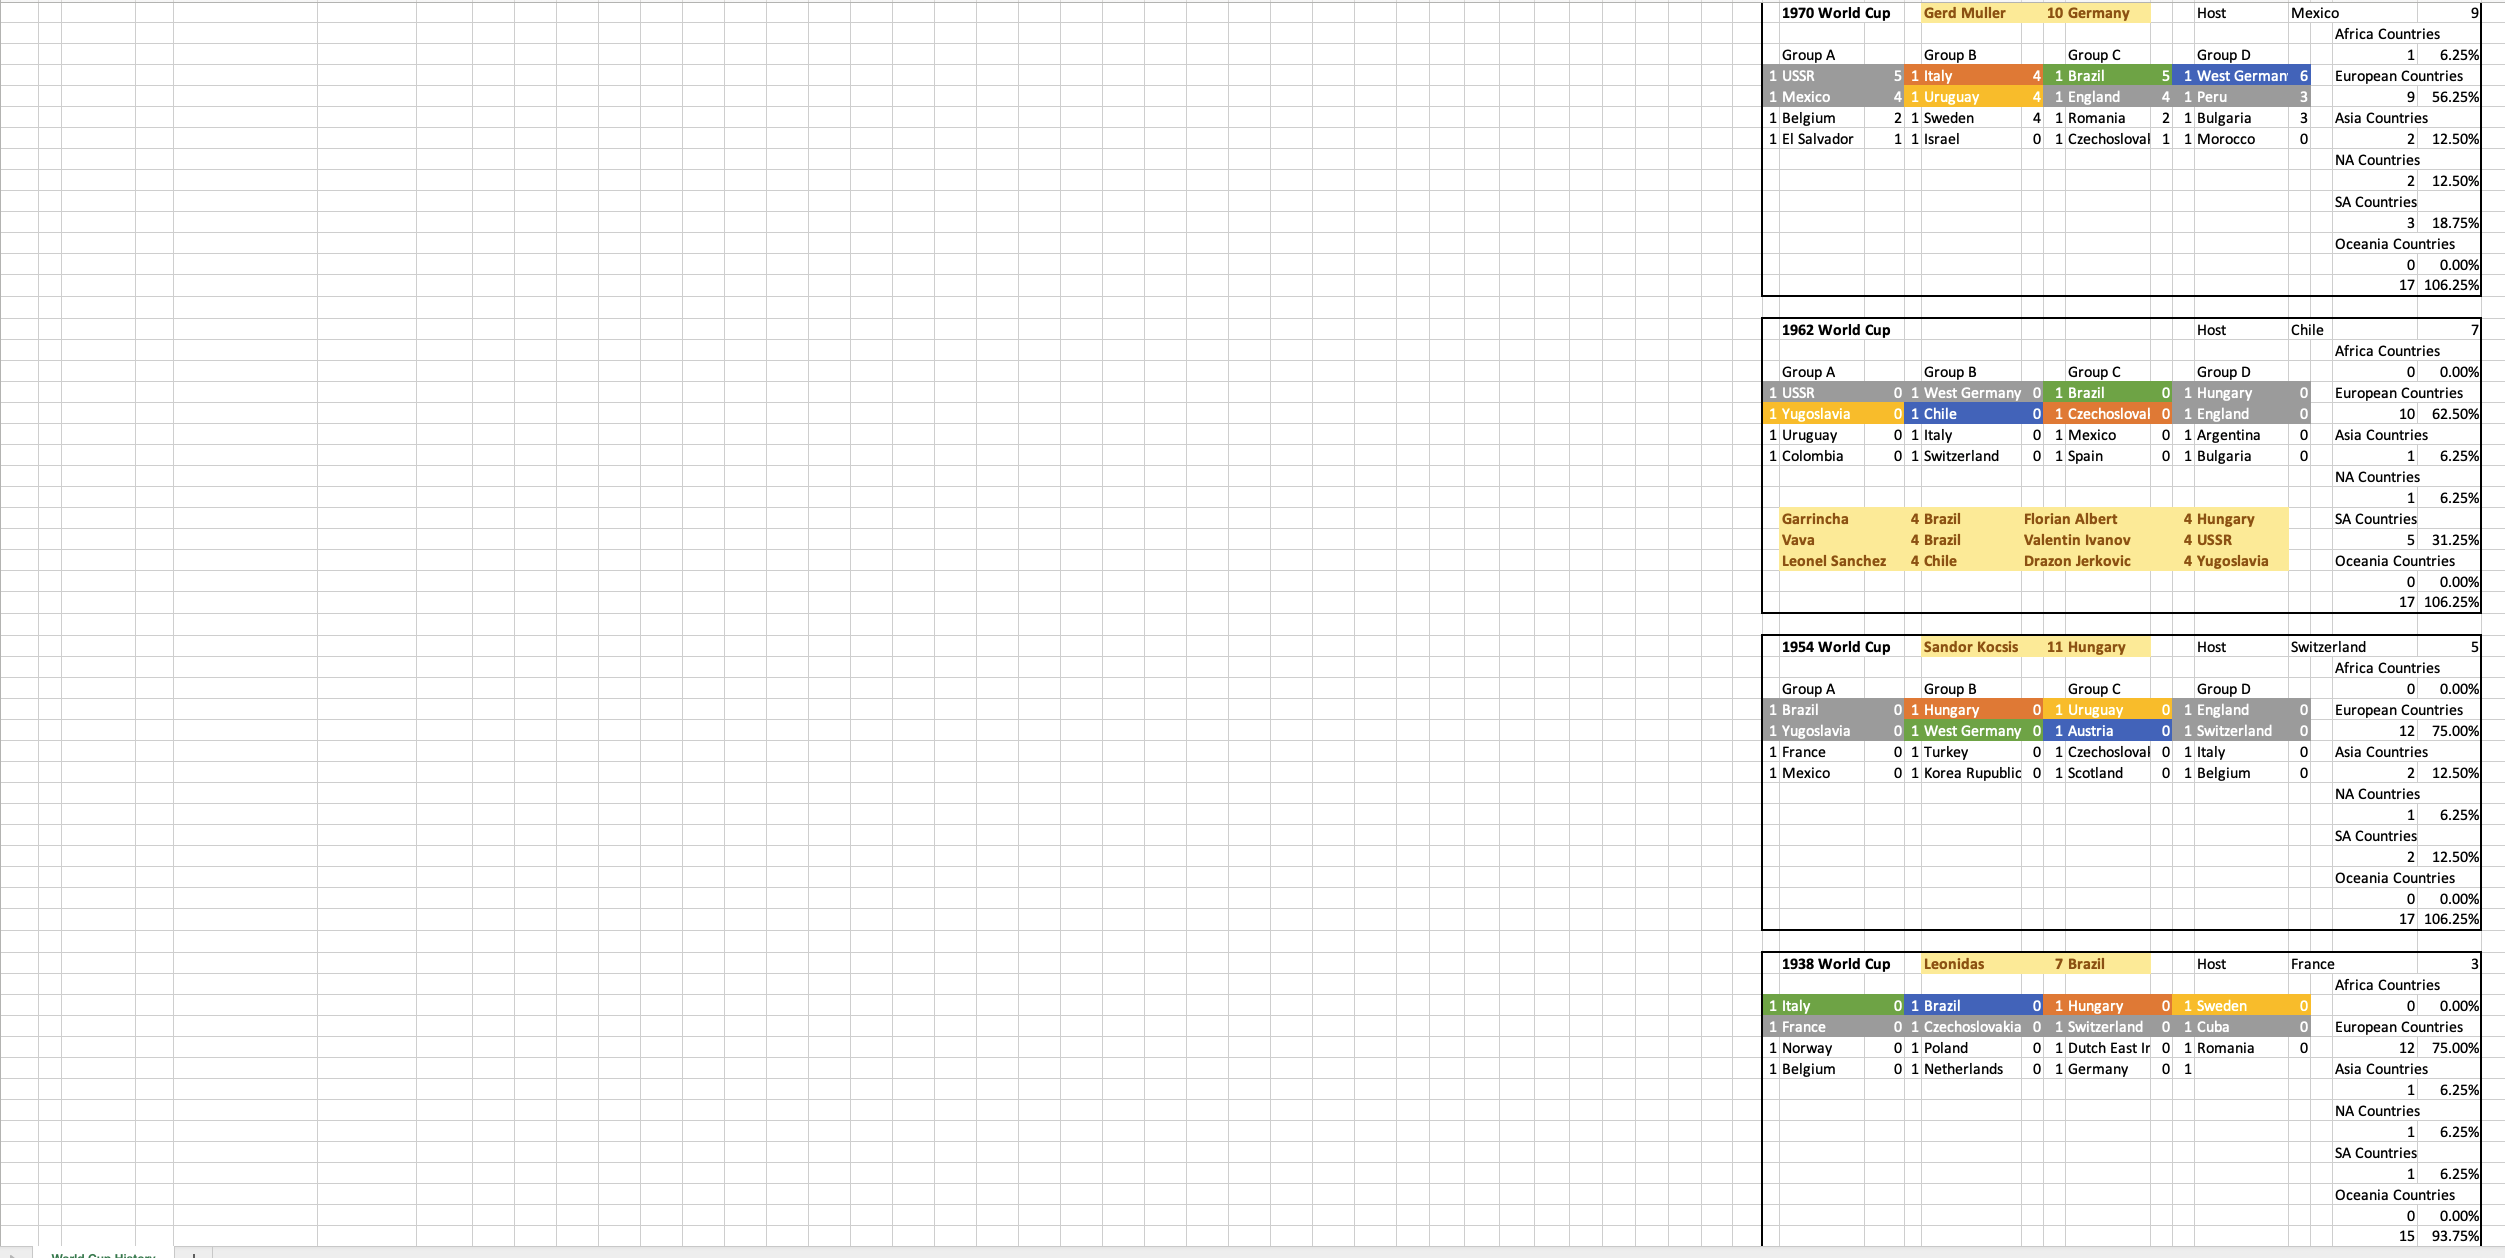
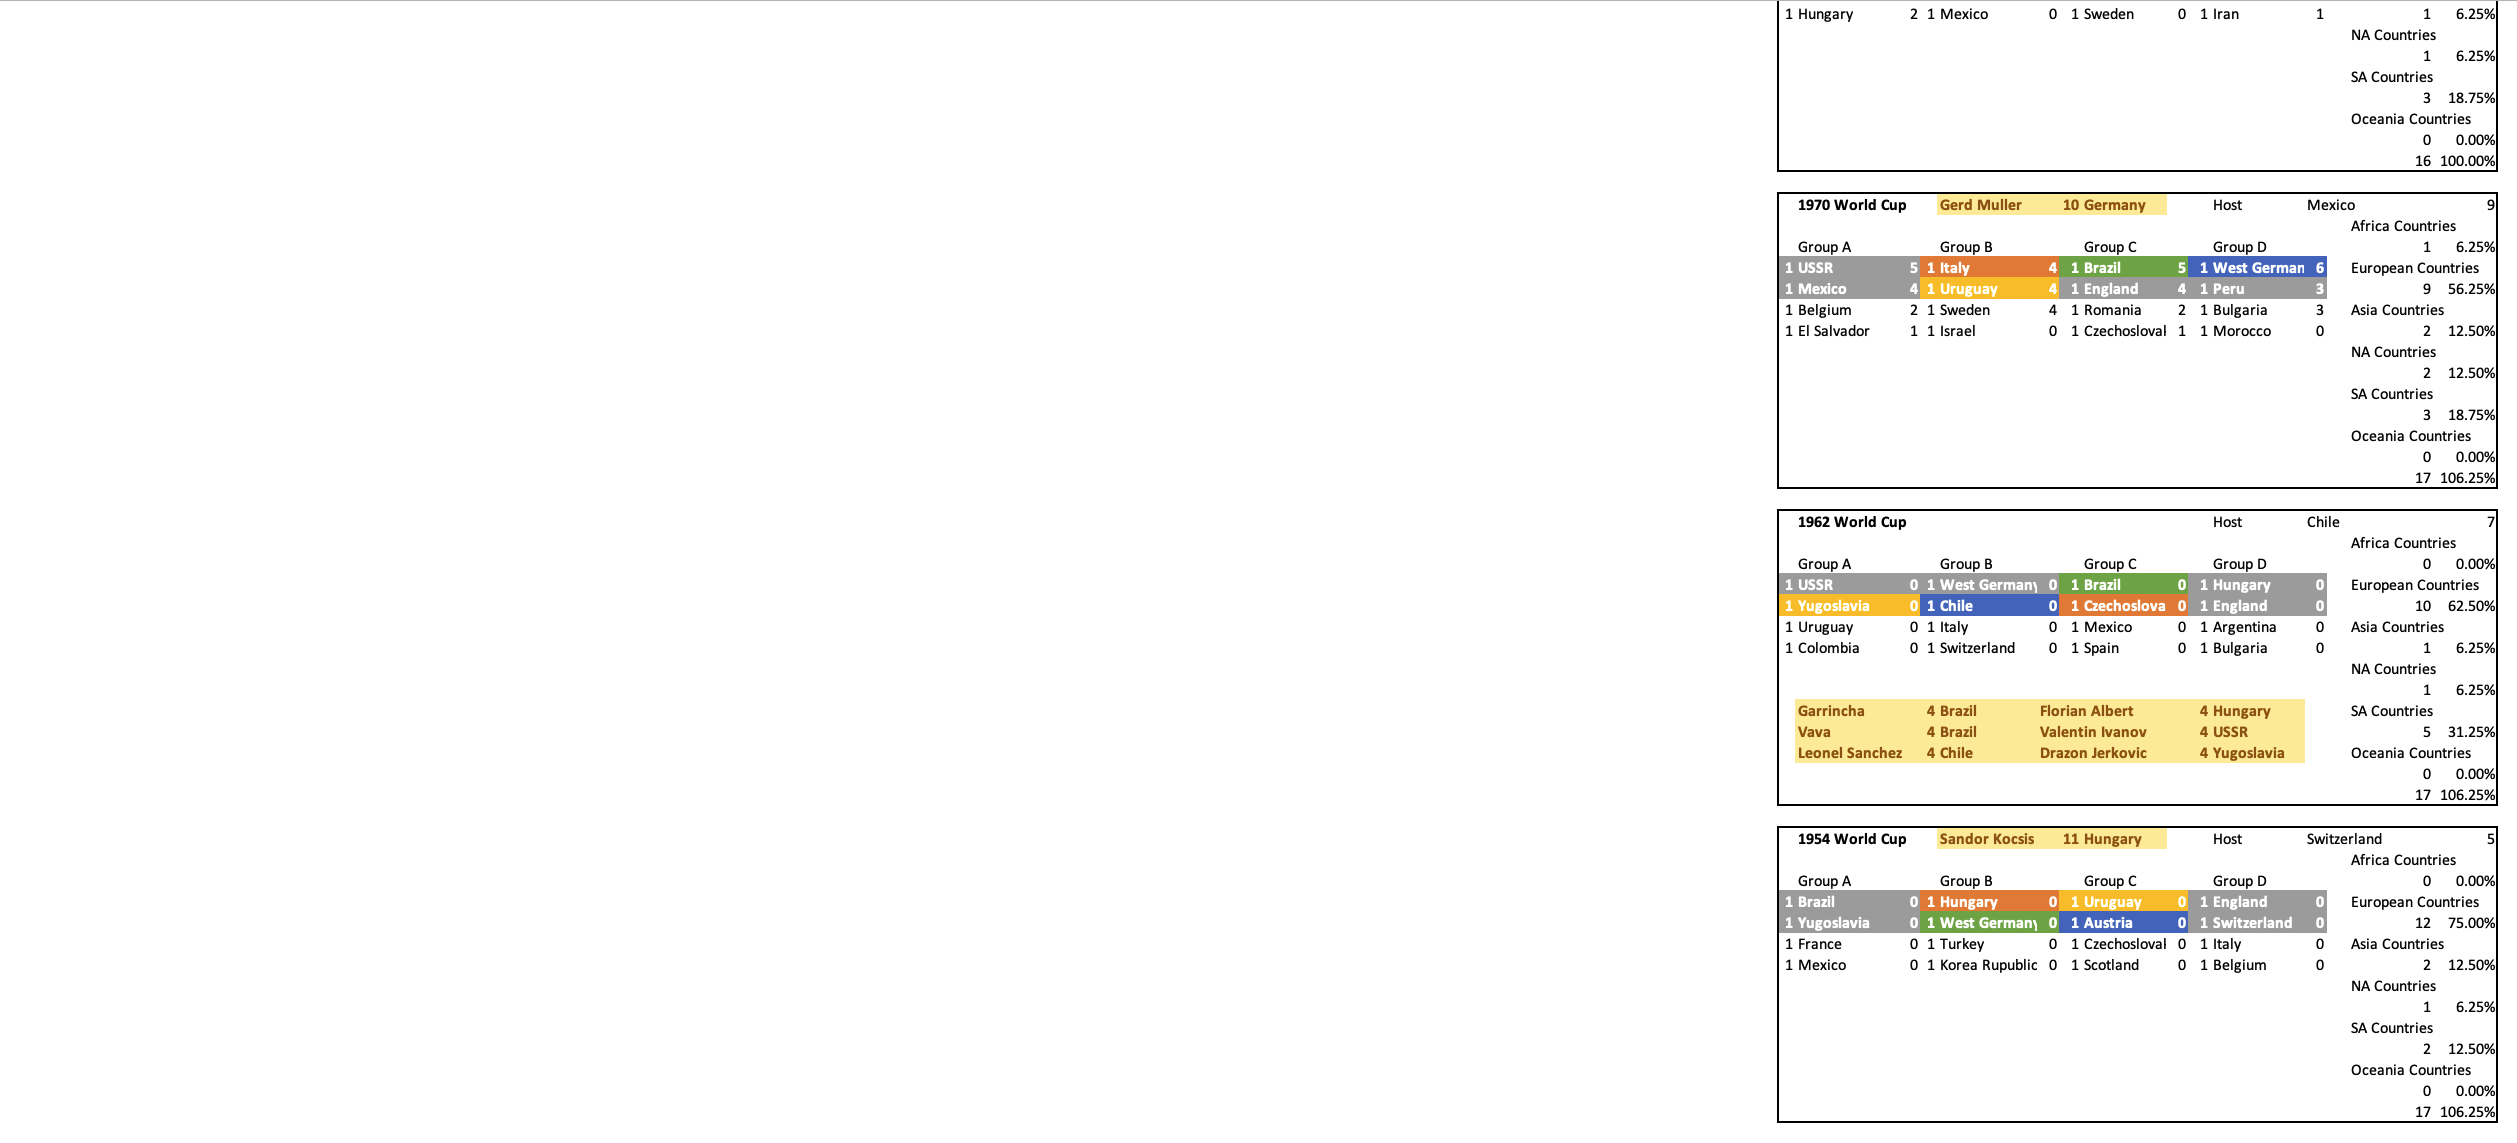
updated sports section

diff --git a/ncaatourney.html b/ncaatourney.html
@@ -70,29 +70,33 @@
         <img style="margin-left: 30px"; src="assets/images/NCAA_legend1.png">
         <br>
         <br>
-        <div style="width: 3600px">
+        <div style="width: 4600px">
             <img id="img11" style="margin-left: 30px; float: left;"; src="assets/images/NCAANewFull1.1.png">
             <img id="img12" style="float: left"; src="assets/images/NCAANewFull1.2.png">
         </div>
-        <div style="width: 3600px">
+        <div style="width: 4600px">
             <img id="img21" style="margin-left: 30px; float: left;"; src="assets/images/NCAANewFull2.1.png">
             <img id="img22" style="float: left"; src="assets/images/NCAANewFull2.2.png">
         </div>
-        <div style="width: 3600px">
+        <div style="width: 4600px">
             <img id="img31" style="margin-left: 30px; float: left;"; src="assets/images/NCAANewFull3.1.png">
             <img id="img32" style="float: left"; src="assets/images/NCAANewFull3.2.png">
         </div>
-        <div style="width: 3600px">
+        <div style="width: 4600px">
             <img id="img41" style="margin-left: 30px; float: left;"; src="assets/images/NCAANewFull4.1.png">
             <img id="img42" style="float: left"; src="assets/images/NCAANewFull4.2.png">
         </div>
-        <div style="width: 3600px">
+        <div style="width: 4600px">
             <img id="img41" style="margin-left: 30px; float: left;"; src="assets/images/NCAANewFull5.1.png">
             <img id="img42" style="float: left"; src="assets/images/NCAANewFull5.2.png">
         </div>
-        <div style="width: 3600px">
+        <div style="width: 4600px">
             <img id="img41" style="margin-left: 30px; float: left;"; src="assets/images/NCAANewFull6.1.png">
             <img id="img42" style="float: left"; src="assets/images/NCAANewFull6.2.png">
+        </div>
+        <div style="width: 4600px">
+            <img id="img41" style="margin-left: 30px; float: left;"; src="assets/images/NCAANewFull7.1.png">
+            <img id="img42" style="float: left"; src="assets/images/NCAANewFull7.2.png">
         </div>
         <br>
         <br>

diff --git a/WorldCup.html b/WorldCup.html
@@ -47,7 +47,7 @@
                 <img id="img12" style="float: left"; src="assets/images/HistoryWorldCupNew1.2.png">
             </div>
             <div style="width: 4000px">
-                <img id="img21" style="margin-left: 30px; float: left;"; src="assets/images/HistoryWorldCupNew2.1.png">
+                <img id="img21" style="margin-left: 40px; float: left;"; src="assets/images/HistoryWorldCupNew2.1.png">
                 <img id="img22" style="float: left"; src="assets/images/HistoryWorldCupNew2.2.png">
             </div>
             <div style="width: 4000px">
@@ -56,7 +56,7 @@
             </div>
             <div style="width: 4000px">
                 <img id="img41" style="margin-left: 30px; float: left;"; src="assets/images/HistoryWorldCupNew4.1.png">
-                <img id="img42" style="float: left"; src="">
+                <img id="img42" style="float: left"; src="assets/images/HistoryWorldCupNew4.2.png">
             </div>
         <br>
         <br>

diff --git a/MLB.html b/MLB.html
@@ -43,9 +43,11 @@
             <br>
             <br>
 
-            <div style="width: 4500px">
+            <div style="width: 8500px">
                 <img id="img11" style="margin-left: 30px; float: left;"; src="assets/images/WorldSeriesNew1.1.png">
-                <img id="img12" style="float: left"; src="assets/images/WorldSeriesNew1.2.png">
+                <img id="img12" style="float: left"; src="assets/images/WorldSeriesNew2.1.png">
+                <img id="img13" style="float: left;"; src="assets/images/WorldSeriesNew3.1.png">
+                <img id="img14" style="float: left"; src="assets/images/WorldSeriesNew4.1.png">
             </div>
 
 

diff --git a/NHL.html b/NHL.html
@@ -43,7 +43,7 @@
             <br>
             <br>
 
-            <div style="width: 4000px">
+            <div style="width: 4500px">
                 <img id="img11" style="margin-left: 30px; float: left;"; src="assets/images/SCPNew1.1.png">
                 <img id="img12" style="float: left"; src="assets/images/SCPNew1.2.png">
             </div>

diff --git a/sports.html b/sports.html
@@ -54,7 +54,7 @@
             <h3 id="h3">Right Click for Single Image Change</h3>
         </div>
         <div class= "container">
-            <h4 id="h4">Last updated November, 23 2022</h3>
+            <h4 id="h4">Last updated June 16, 2023</h3>
         </div>
         </div>
 
